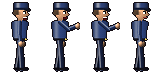
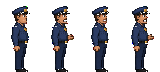
Kowalski vom Nutzer, Füße auf die Fußlinie, Höhe und Klickfläche angepasst

diff --git a/tools/paint/build.ts b/tools/paint/build.ts
@@ -141,7 +141,7 @@ run('titel', 'assets/ui/title.png', paintTitel, false);
 run('delorean', 'assets/characters/delorean/delorean.png', Sp.zeitwagen, true);
 run('zeitzug', 'assets/characters/zeitzug/zeitzug.png', Sp.zeitzug, true);
 /** Vom Nutzer gezeichnete Figuren: Alle ihre Animationen und das Porträt bleiben unangetastet. */
-const EIGENE_FIGUREN = new Set(['marty', 'lorraine', 'biff', 'einstein']);
+const EIGENE_FIGUREN = new Set(['marty', 'lorraine', 'biff', 'einstein', 'kowalski']);
 
 for (const id of FIGURE_IDS) {
   if (EIGENE_FIGUREN.has(id)) continue;

diff --git a/src/game/rooms/rathausplatz.ts b/src/game/rooms/rathausplatz.ts
@@ -314,7 +314,7 @@ const hotspots1986: readonly Hotspot[] = [
   {
     id: 'kowalski',
     name: 'hotspot.kowalski',
-    area: rect(170, 42, 32, 64),
+    area: rect(170, 46, 32, 60),
     walkTo: [204, 108],
     face: 'links',
     defaultVerb: 'redemit',
